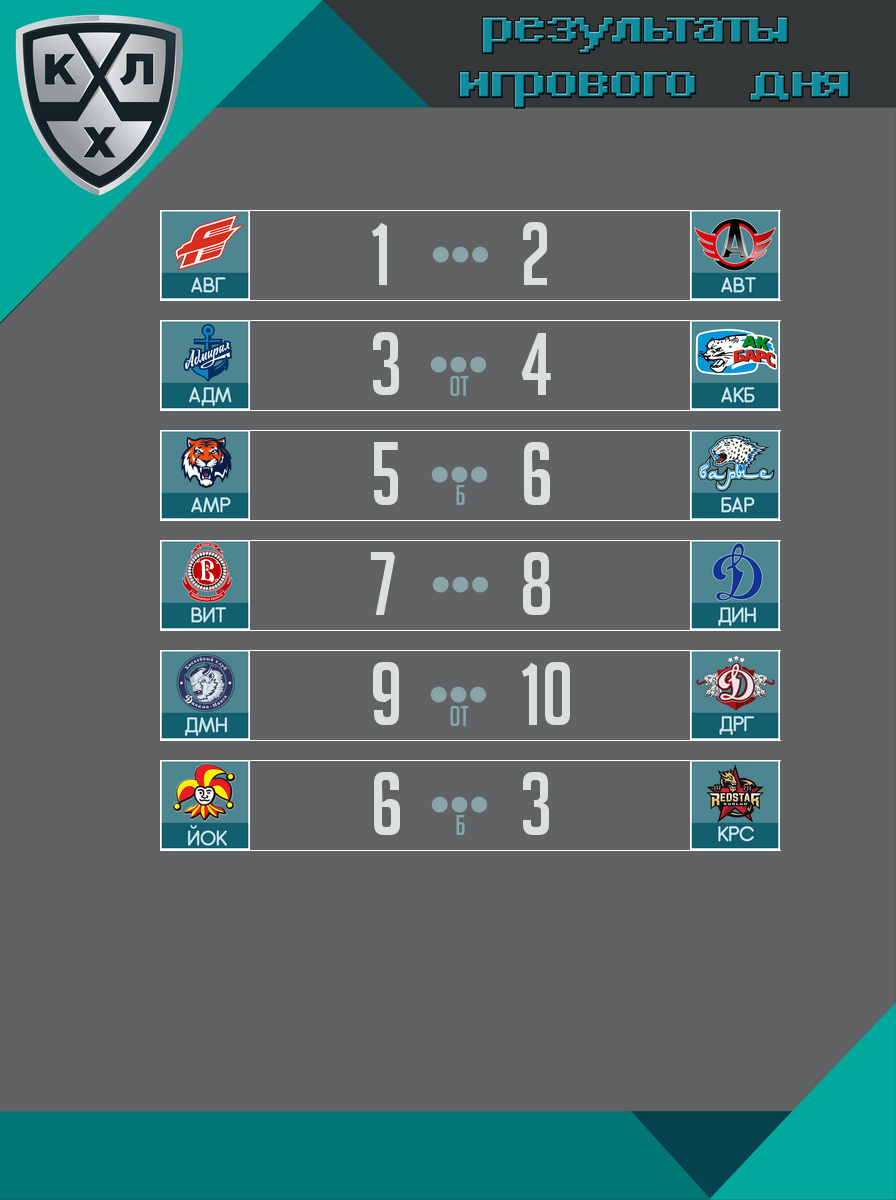
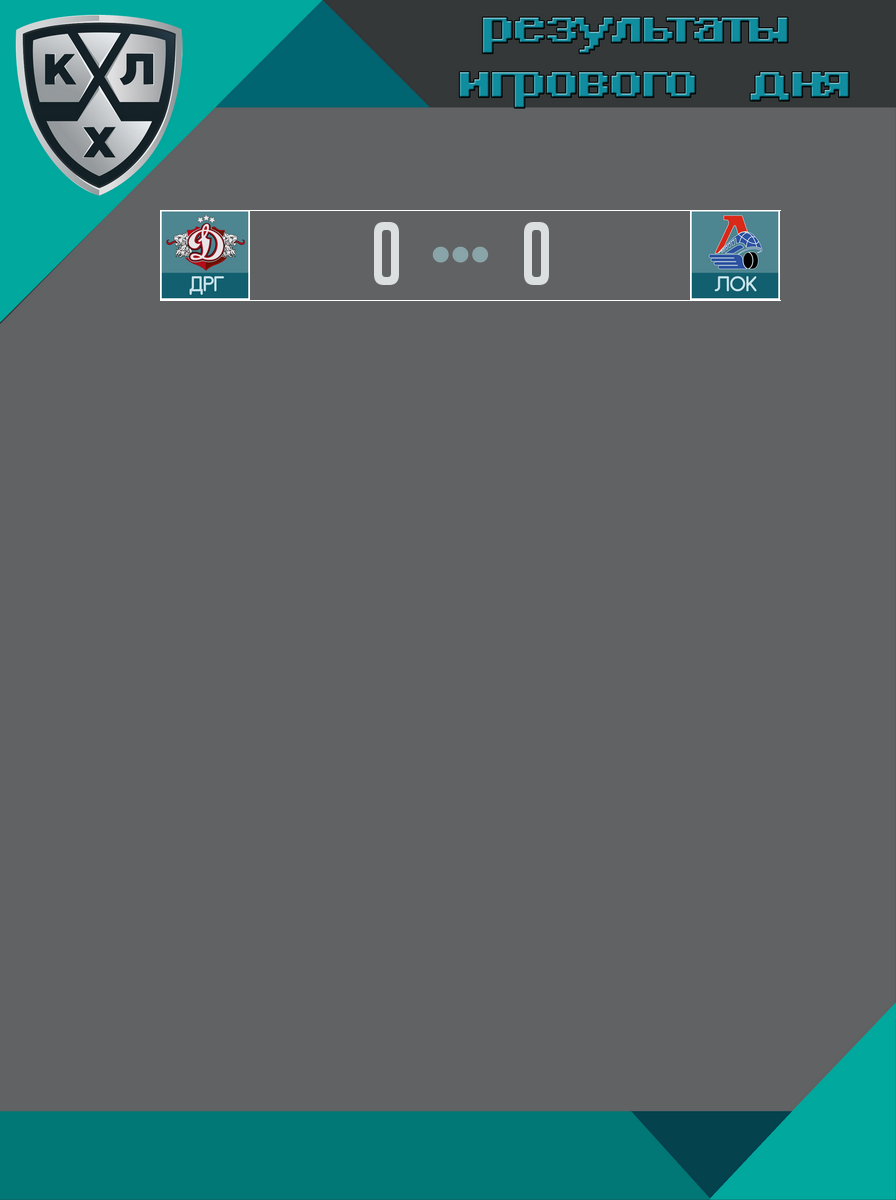
Редактирование файла views/module3/poster_final_score.php

diff --git a/views/module3/poster_final_score.php b/views/module3/poster_final_score.php
@@ -81,18 +81,6 @@ include(Yii::getAlias('@app/web/my_config/module2.php'));
         $score_team2 = 'score_team2_'.$i;        // счет команды 2
         
         $count_periods = 'count_periods_'.$i;    // количестов периодов
-//        
-//        $xPosTeams = 'xPosTeam1_'.$i;           // начальная позиция по X надписи команд
-//        $yPosTeams = 'yPosTeam1_'.$i;           // позиция по Y надписи команд
-//        $xPosLogo1 = 'xPosLogo1_'.$i;           // позиция по X логотипа команды 1
-//        $xPosLogo2 = 'xPosLogo2_'.$i;           // позиция по X логотипа команды 2
-//        $yPosLogos = 'yPosLogo1_'.$i;           // позиция по Y логотипов команд
-//        $fontSizeTeams = 'fontSizeTeams_'.$i;   // размер шрифта в названии команд
-        
-        echo '<br>teamFirst - '.$teamFirst.'<br>';
-        echo '$teamSecond - '.$teamSecond.'<br>';
-        echo 'data_poster[$teamFirst]- '.$data_poster[$teamFirst].'<br>';
-        echo 'data_poster[$teamSecond]- '.$data_poster[$teamSecond].'<br>';
         
         // логотипа команды 1
         $path_logo_temp_1 = $logo[$data_poster[$teamFirst]];

diff --git a/web/my_config/module2.php b/web/my_config/module2.php
@@ -110,6 +110,7 @@ MONTHGAME;
 // количество шайб
 $count_puks = <<<COUNTPUKS
     <option selected disabled>Шайбы</option>
+    <option value="0">0</option>
     <option value="1">1</option>
     <option value="2">2</option>
     <option value="3">3</option>
